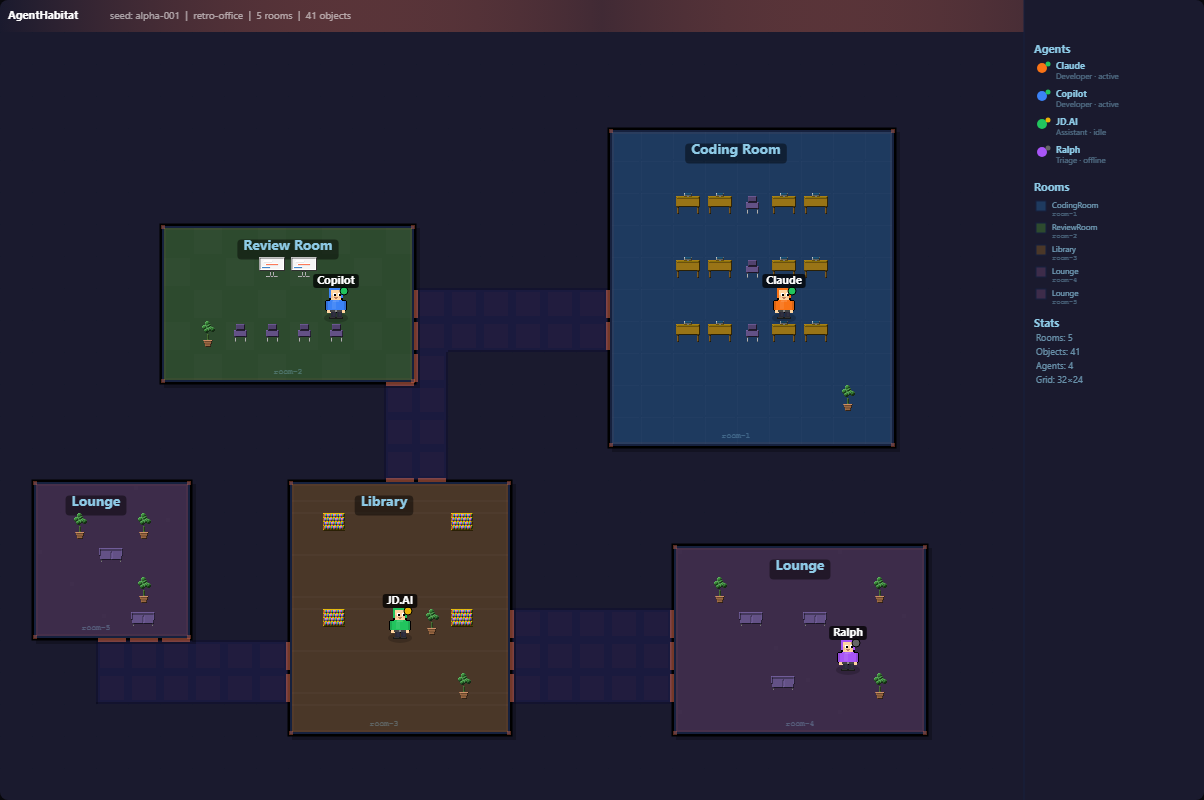
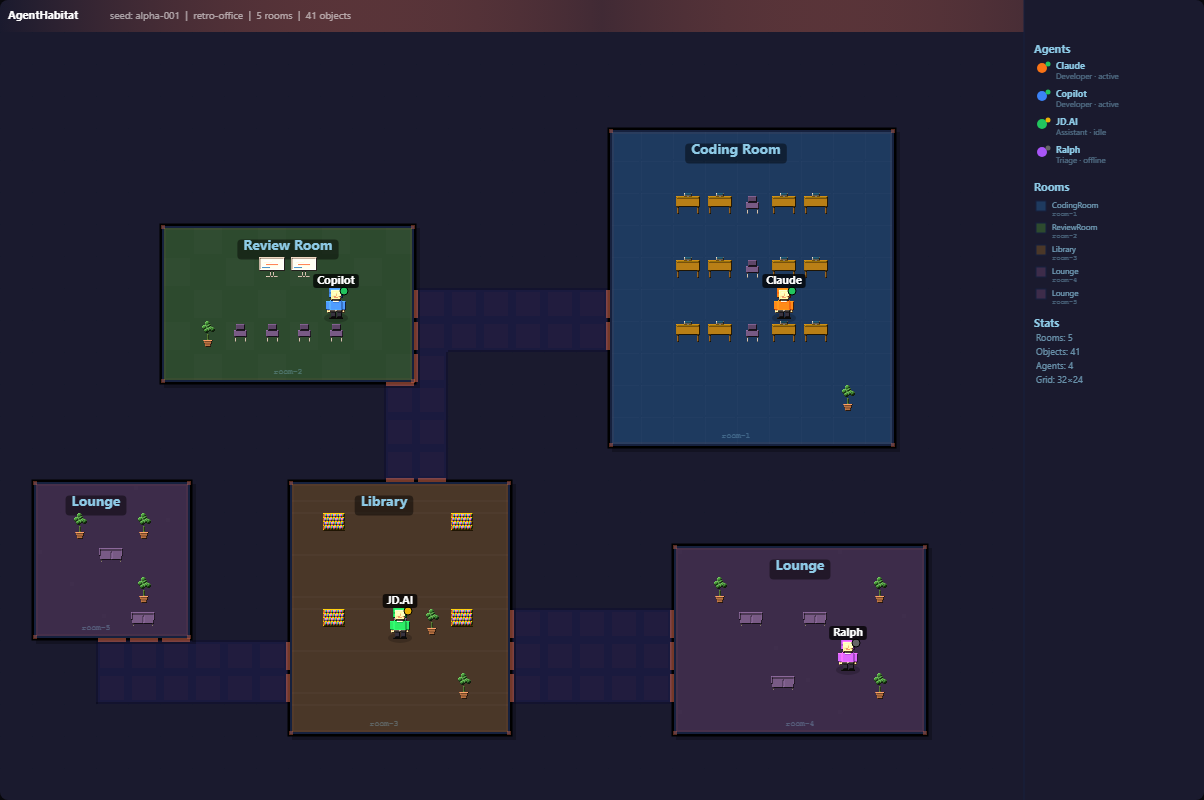
feat(renderer): theme-specific lighting + heightmap-lit agents (Slice B)
Theme lighting:
- Retro-office: warm tint (r:1.1, g:1.0, b:0.9), moderate contrast
- Forest-lab: green-balanced tint (r:0.9, g:1.1, b:0.95)
- Neon-hq: cool tint (r:0.9, g:0.9, b:1.15), high contrast
- Wider brightness range (0.2-1.6) for more dramatic shadows/highlights

Agent heightmap sprites:
- Agents now built as heightmap sprites with proper depth values
- Head (depth 8), hair (7), shirt (5), arms (4), shoes (2)
- Per-pixel lighting applied with theme tint
- 1px outline pass for contrast on all backgrounds
- Eyes with highlight dots at depth 9.5

All sprites (objects + agents) now share the same lighting pipeline.

diff --git a/tools/worldgen-renderer.html b/tools/worldgen-renderer.html
@@ -304,8 +304,15 @@ function drawPixelSprite(ctx, name, px, py, style, scale = 2, overrideColor = nu
 }
 
 // --- Heightmap Lighting Engine ---
-const LIGHT = { x: -0.4, y: -0.6, z: 0.7 };
+// Theme-specific light directions and tints
+const THEME_LIGHTS = {
+  'retro-office': { dir: { x: -0.4, y: -0.6, z: 0.7 }, tint: { r: 1.1, g: 1.0, b: 0.9 }, contrast: 1.3 },  // warm
+  'forest-lab':   { dir: { x: -0.3, y: -0.5, z: 0.8 }, tint: { r: 0.9, g: 1.1, b: 0.95 }, contrast: 1.2 }, // green
+  'neon-hq':      { dir: { x: -0.5, y: -0.4, z: 0.7 }, tint: { r: 0.9, g: 0.9, b: 1.15 }, contrast: 1.4 }, // cool
+};
+let currentThemeLight = THEME_LIGHTS['retro-office'];
 function computeLight(hm, w, h) {
+  const L = currentThemeLight;
   const l = new Float32Array(w * h);
   for (let y = 0; y < h; y++) for (let x = 0; x < w; x++) {
     const i = y * w + x;
@@ -314,7 +321,8 @@ function computeLight(hm, w, h) {
     const hU = y > 0 ? hm[i-w] : hm[i], hD = y < h-1 ? hm[i+w] : hm[i];
     const nx = (hL-hR)*0.5, ny = (hU-hD)*0.5, nz = 1;
     const len = Math.sqrt(nx*nx+ny*ny+nz*nz);
-    l[i] = Math.max(0.3, Math.min(1.4, 0.4 + (nx/len*LIGHT.x + ny/len*LIGHT.y + nz/len*LIGHT.z)));
+    const dot = nx/len*L.dir.x + ny/len*L.dir.y + nz/len*L.dir.z;
+    l[i] = Math.max(0.2, Math.min(1.6, 0.3 + dot * L.contrast));
   }
   return l;
 }
@@ -323,12 +331,13 @@ function rgb2hex(r,g,b) { return '#'+[r,g,b].map(c=>Math.max(0,Math.min(255,Math
 
 function renderLitSprite(ctx, spr, px, py) {
   const light = computeLight(spr.hm, spr.w, spr.h);
+  const tint = currentThemeLight.tint;
   for (let y = 0; y < spr.h; y++) for (let x = 0; x < spr.w; x++) {
     const i = y * spr.w + x;
     if (!spr.c[i]) continue;
     const rgb = hex2rgb(spr.c[i]);
     const b = light[i];
-    ctx.fillStyle = rgb2hex(rgb.r*b, rgb.g*b, rgb.b*b);
+    ctx.fillStyle = rgb2hex(rgb.r * b * tint.r, rgb.g * b * tint.g, rgb.b * b * tint.b);
     ctx.fillRect(px + x, py + y, 1, 1);
   }
 }
@@ -439,6 +448,7 @@ const SPRITES_32_DATA = {
 
 // --- Renderer ---
 function render(canvas, world) {
+  currentThemeLight = THEME_LIGHTS[world.opts.style] || THEME_LIGHTS['retro-office'];
   const pal = PALETTES[world.opts.style] || PALETTES['retro-office'];
   const tileSize = 32;
   const W = world.opts.width, H = world.opts.height;
@@ -623,86 +633,67 @@ function render(canvas, world) {
     ctx.ellipse(ax + 16, ay + 30, 12, 5, 0, 0, Math.PI * 2);
     ctx.fill();
 
-    // 1px dark outline
-    ctx.fillStyle = '#000';
-    for (const [dx, dy] of [[1,0],[-1,0],[0,1],[0,-1]]) {
-      ctx.fillRect(ax + 10 + dx, ay + 1 + dy, 12, 11);
-      ctx.fillRect(ax + 9 + dx, ay + 12 + dy, 14, 12);
-      ctx.fillRect(ax + 6 + dx, ay + 13 + dy, 4, 9);
-      ctx.fillRect(ax + 22 + dx, ay + 13 + dy, 4, 9);
+    // Build agent as heightmap sprite for proper lighting
+    const agentSpr = { w: 32, h: 32, c: new Array(32*32).fill(null), hm: new Float32Array(32*32) };
+    const aw = 32;
+    function ap(x, y, col, depth) {
+      if (x >= 0 && y >= 0 && x < 32 && y < 32) {
+        agentSpr.c[y * aw + x] = col;
+        agentSpr.hm[y * aw + x] = Math.max(agentSpr.hm[y * aw + x], depth);
+      }
     }
-
-    // Body (detailed humanoid — RPG style)
-    // Hair (fuller)
-    ctx.fillStyle = c;
-    ctx.fillRect(ax + 9, ay + 0, 14, 5);
-    ctx.fillRect(ax + 9, ay + 0, 3, 10);
-    ctx.fillRect(ax + 20, ay + 0, 3, 10);
-    // Head (skin)
-    ctx.fillStyle = '#ffd5a0';
-    ctx.fillRect(ax + 11, ay + 2, 10, 10);
-    // Face details
-    ctx.fillStyle = '#f0c090'; // cheek shading
-    ctx.fillRect(ax + 11, ay + 7, 2, 3);
-    ctx.fillRect(ax + 19, ay + 7, 2, 3);
-    // Eyes (bigger, more detailed)
-    ctx.fillStyle = '#fff';
-    ctx.fillRect(ax + 13, ay + 5, 3, 3);
-    ctx.fillRect(ax + 18, ay + 5, 3, 3);
-    ctx.fillStyle = '#000';
-    ctx.fillRect(ax + 14, ay + 6, 2, 2);
-    ctx.fillRect(ax + 19, ay + 6, 2, 2);
-    // Eye highlights
-    ctx.fillStyle = '#fff';
-    ctx.fillRect(ax + 14, ay + 5, 1, 1);
-    ctx.fillRect(ax + 19, ay + 5, 1, 1);
+    function aRect(x1, y1, w, h, col, depth) {
+      for (let dy = 0; dy < h; dy++) for (let dx = 0; dx < w; dx++) ap(x1+dx, y1+dy, col, depth);
+    }
+    // Hair
+    aRect(9, 0, 14, 5, c, 7);
+    aRect(9, 0, 3, 10, c, 6);
+    aRect(20, 0, 3, 10, c, 6);
+    // Head
+    aRect(11, 2, 10, 10, '#ffd5a0', 8);
+    // Cheeks
+    aRect(11, 7, 2, 3, '#f0c090', 7.5);
+    aRect(19, 7, 2, 3, '#f0c090', 7.5);
+    // Eyes
+    aRect(13, 5, 3, 3, '#fff', 8.5);
+    aRect(18, 5, 3, 3, '#fff', 8.5);
+    aRect(14, 6, 2, 2, '#000', 9);
+    aRect(19, 6, 2, 2, '#000', 9);
+    ap(14, 5, '#fff', 9.5); ap(19, 5, '#fff', 9.5); // highlights
     // Mouth
-    ctx.fillStyle = '#c08060';
-    ctx.fillRect(ax + 14, ay + 9, 4, 1);
-    ctx.fillRect(ax + 15, ay + 10, 2, 1);
-    // Shirt (with shading)
-    ctx.fillStyle = c;
-    ctx.fillRect(ax + 10, ay + 12, 12, 11);
-    // Shirt highlight
-    const cBright = c + 'cc';
-    ctx.fillStyle = '#ffffff15';
-    ctx.fillRect(ax + 12, ay + 13, 4, 8);
+    aRect(14, 9, 4, 1, '#c08060', 7.8);
+    // Shirt
+    aRect(10, 12, 12, 11, c, 5);
     // Collar
-    ctx.fillStyle = '#ffffff20';
-    ctx.fillRect(ax + 13, ay + 12, 6, 2);
+    aRect(13, 12, 6, 2, '#ffffff', 5.5);
     // Arms
-    ctx.fillStyle = c;
-    ctx.fillRect(ax + 6, ay + 13, 5, 9);
-    ctx.fillRect(ax + 21, ay + 13, 5, 9);
-    // Arm shading
-    ctx.fillStyle = '#00000020';
-    ctx.fillRect(ax + 6, ay + 13, 2, 9);
-    ctx.fillRect(ax + 24, ay + 13, 2, 9);
+    aRect(6, 13, 5, 9, c, 4);
+    aRect(21, 13, 5, 9, c, 4);
     // Hands
-    ctx.fillStyle = '#ffd5a0';
-    ctx.fillRect(ax + 7, ay + 22, 4, 3);
-    ctx.fillRect(ax + 21, ay + 22, 4, 3);
-    // Pants
-    ctx.fillStyle = '#2a2a3a';
-    ctx.fillRect(ax + 11, ay + 23, 5, 6);
-    ctx.fillRect(ax + 17, ay + 23, 5, 6);
-    // Pants highlight
-    ctx.fillStyle = '#ffffff08';
-    ctx.fillRect(ax + 13, ay + 24, 2, 4);
-    ctx.fillRect(ax + 19, ay + 24, 2, 4);
+    aRect(7, 22, 4, 3, '#ffd5a0', 3);
+    aRect(21, 22, 4, 3, '#ffd5a0', 3);
     // Belt
-    ctx.fillStyle = '#444';
-    ctx.fillRect(ax + 10, ay + 22, 12, 2);
-    ctx.fillStyle = '#888';
-    ctx.fillRect(ax + 15, ay + 22, 2, 2); // buckle
+    aRect(10, 22, 12, 2, '#444444', 5.2);
+    aRect(15, 22, 2, 2, '#888888', 5.5); // buckle
+    // Pants
+    aRect(11, 24, 5, 5, '#2a2a3a', 4);
+    aRect(17, 24, 5, 5, '#2a2a3a', 4);
     // Shoes
-    ctx.fillStyle = '#1a1a1a';
-    ctx.fillRect(ax + 9, ay + 29, 7, 2);
-    ctx.fillRect(ax + 16, ay + 29, 7, 2);
-    // Shoe highlight
-    ctx.fillStyle = '#333';
-    ctx.fillRect(ax + 10, ay + 29, 5, 1);
-    ctx.fillRect(ax + 17, ay + 29, 5, 1);
+    aRect(9, 29, 7, 2, '#1a1a1a', 2);
+    aRect(16, 29, 7, 2, '#1a1a1a', 2);
+
+    // 1px outline pass
+    ctx.fillStyle = '#000';
+    for (let sy = 0; sy < 32; sy++) for (let sx = 0; sx < 32; sx++) {
+      if (!agentSpr.c[sy*32+sx]) continue;
+      for (const [dx,dy] of [[1,0],[-1,0],[0,1],[0,-1]]) {
+        const nx = sx+dx, ny = sy+dy;
+        if (nx<0||ny<0||nx>=32||ny>=32||!agentSpr.c[ny*32+nx])
+          ctx.fillRect(ax + sx, ay + sy, 1, 1);
+      }
+    }
+    // Render lit agent
+    renderLitSprite(ctx, agentSpr, ax, ay);
 
     // Status indicator
     ctx.beginPath();
